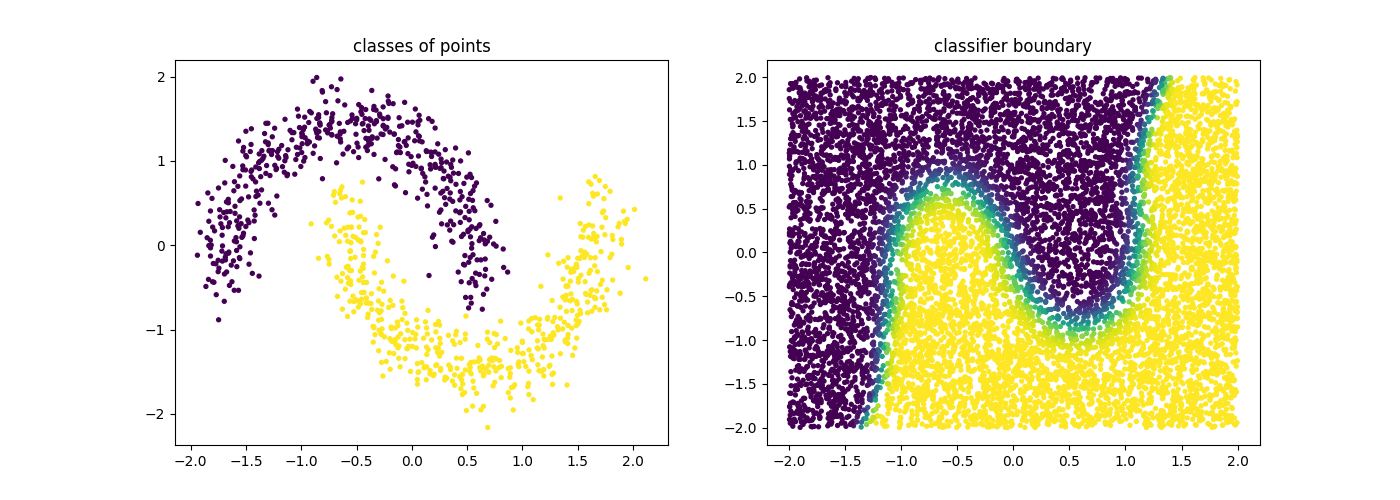
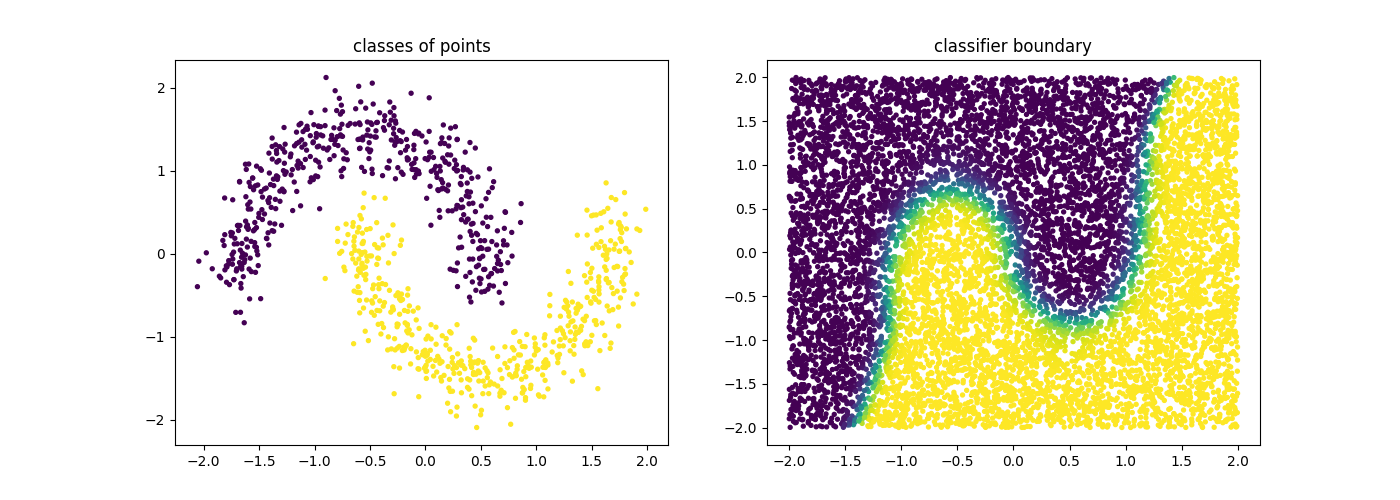
docs: add BayesianKernelDensityClassifier example to mixture methods (#290)

diff --git a/docs/_scripts/mixture-methods.py b/docs/_scripts/mixture-methods.py
@@ -9,9 +9,10 @@ _static_path.mkdir(parents=True, exist_ok=True)
 #################################### GMMClassifier #######################################
 ##########################################################################################
 
-import matplotlib.pylab as plt
 # --8<-- [start:gmm-classifier]
 import numpy as np
+import matplotlib.pylab as plt
+
 from sklearn.datasets import make_moons
 from sklearn.preprocessing import StandardScaler
 
@@ -28,11 +29,11 @@ mod = GMMClassifier(n_components=4).fit(X, y)
 plt.figure(figsize=(14, 5))
 plt.subplot(121)
 plt.scatter(X[:, 0], X[:, 1], c=mod.predict(X), s=8)
-plt.title("classes of points")
+plt.title("classes of points");
 
 plt.subplot(122)
 plt.scatter(U[:, 0], U[:, 1], c=mod.predict_proba(U)[:, 1], s=8)
-plt.title("classifier boundary")
+plt.title("classifier boundary");
 # --8<-- [end:gmm-classifier]
 
 plt.savefig(_static_path / "gmm-classifier.png")
@@ -42,9 +43,10 @@ plt.clf()
 ################################## GMMOutlierDetector ####################################
 ##########################################################################################
 
-import matplotlib.pylab as plt
 # --8<-- [start:gmm-outlier-detector]
 import numpy as np
+import matplotlib.pylab as plt
+
 from sklearn.datasets import make_moons
 from sklearn.preprocessing import StandardScaler
 
@@ -60,11 +62,11 @@ mod = GMMOutlierDetector(n_components=16, threshold=0.95).fit(X)
 plt.figure(figsize=(14, 5))
 plt.subplot(121)
 plt.scatter(X[:, 0], X[:, 1], c=mod.score_samples(X), s=8)
-plt.title("likelihood of points given mixture of 16 gaussians")
+plt.title("likelihood of points given mixture of 16 gaussians");
 
 plt.subplot(122)
 plt.scatter(U[:, 0], U[:, 1], c=mod.predict(U), s=8)
-plt.title("outlier selection")
+plt.title("outlier selection");
 # --8<-- [end:gmm-outlier-detector]
 
 plt.savefig(_static_path / "gmm-outlier-detector.png")
@@ -79,7 +81,7 @@ for i in range(1, 5):
     mod = GMMOutlierDetector(n_components=16, threshold=i, method="stddev").fit(X)
     plt.subplot(140 + i)
     plt.scatter(U[:, 0], U[:, 1], c=mod.predict(U), s=8)
-    plt.title(f"outlier sigma={i}")
+    plt.title(f"outlier sigma={i}");
 # --8<-- [end:gmm-outlier-multi-threshold]
 
 plt.savefig(_static_path / "gmm-outlier-multi-threshold.png")
@@ -88,9 +90,9 @@ plt.clf()
 ########################################### KDE ##########################################
 ##########################################################################################
 
-import matplotlib.pylab as plt
 # --8<-- [start:outlier-mixture-threshold]
 import numpy as np
+import matplotlib.pylab as plt
 import seaborn as sns
 from scipy.stats import gaussian_kde
 
@@ -103,9 +105,7 @@ likelihood_range = np.linspace(0.80, 1.0, 10000)
 index_max_y = np.argmax(density(likelihood_range))
 mean_likelihood = likelihood_range[index_max_y]
 new_likelihoods = score_samples[score_samples < mean_likelihood]
-new_likelihoods_std = np.sqrt(
-    np.sum((new_likelihoods - mean_likelihood) ** 2) / (len(new_likelihoods) - 1)
-)
+new_likelihoods_std = np.sqrt(np.sum((new_likelihoods - mean_likelihood) ** 2) / (len(new_likelihoods) - 1))
 
 plt.figure(figsize=(14, 3))
 plt.subplot(121)
@@ -125,7 +125,7 @@ plt.title("log-lik values from with GMM, stddev is based on blue part")
 plt.savefig(_static_path / "outlier-mixture-threshold.png")
 plt.clf()
 
-############################# BayesianKernelDensityClassifier ############################
+########################### BayesianKernelDensityClassifier ##############################
 ##########################################################################################
 
 plt.rcdefaults()
@@ -148,12 +148,11 @@ mod = BayesianKernelDensityClassifier(bandwidth=0.2).fit(X, y)
 plt.figure(figsize=(14, 5))
 plt.subplot(121)
 plt.scatter(X[:, 0], X[:, 1], c=mod.predict(X), s=8)
-plt.title("classes of points")
+plt.title("classes of points");
 
 plt.subplot(122)
 plt.scatter(U[:, 0], U[:, 1], c=mod.predict_proba(U)[:, 1], s=8)
-plt.title("classifier boundary")
+plt.title("classifier boundary");
 # --8<-- [end:bayes-kde-classifier]
 
 plt.savefig(_static_path / "bayes-kde-classifier.png")
-plt.clf()
